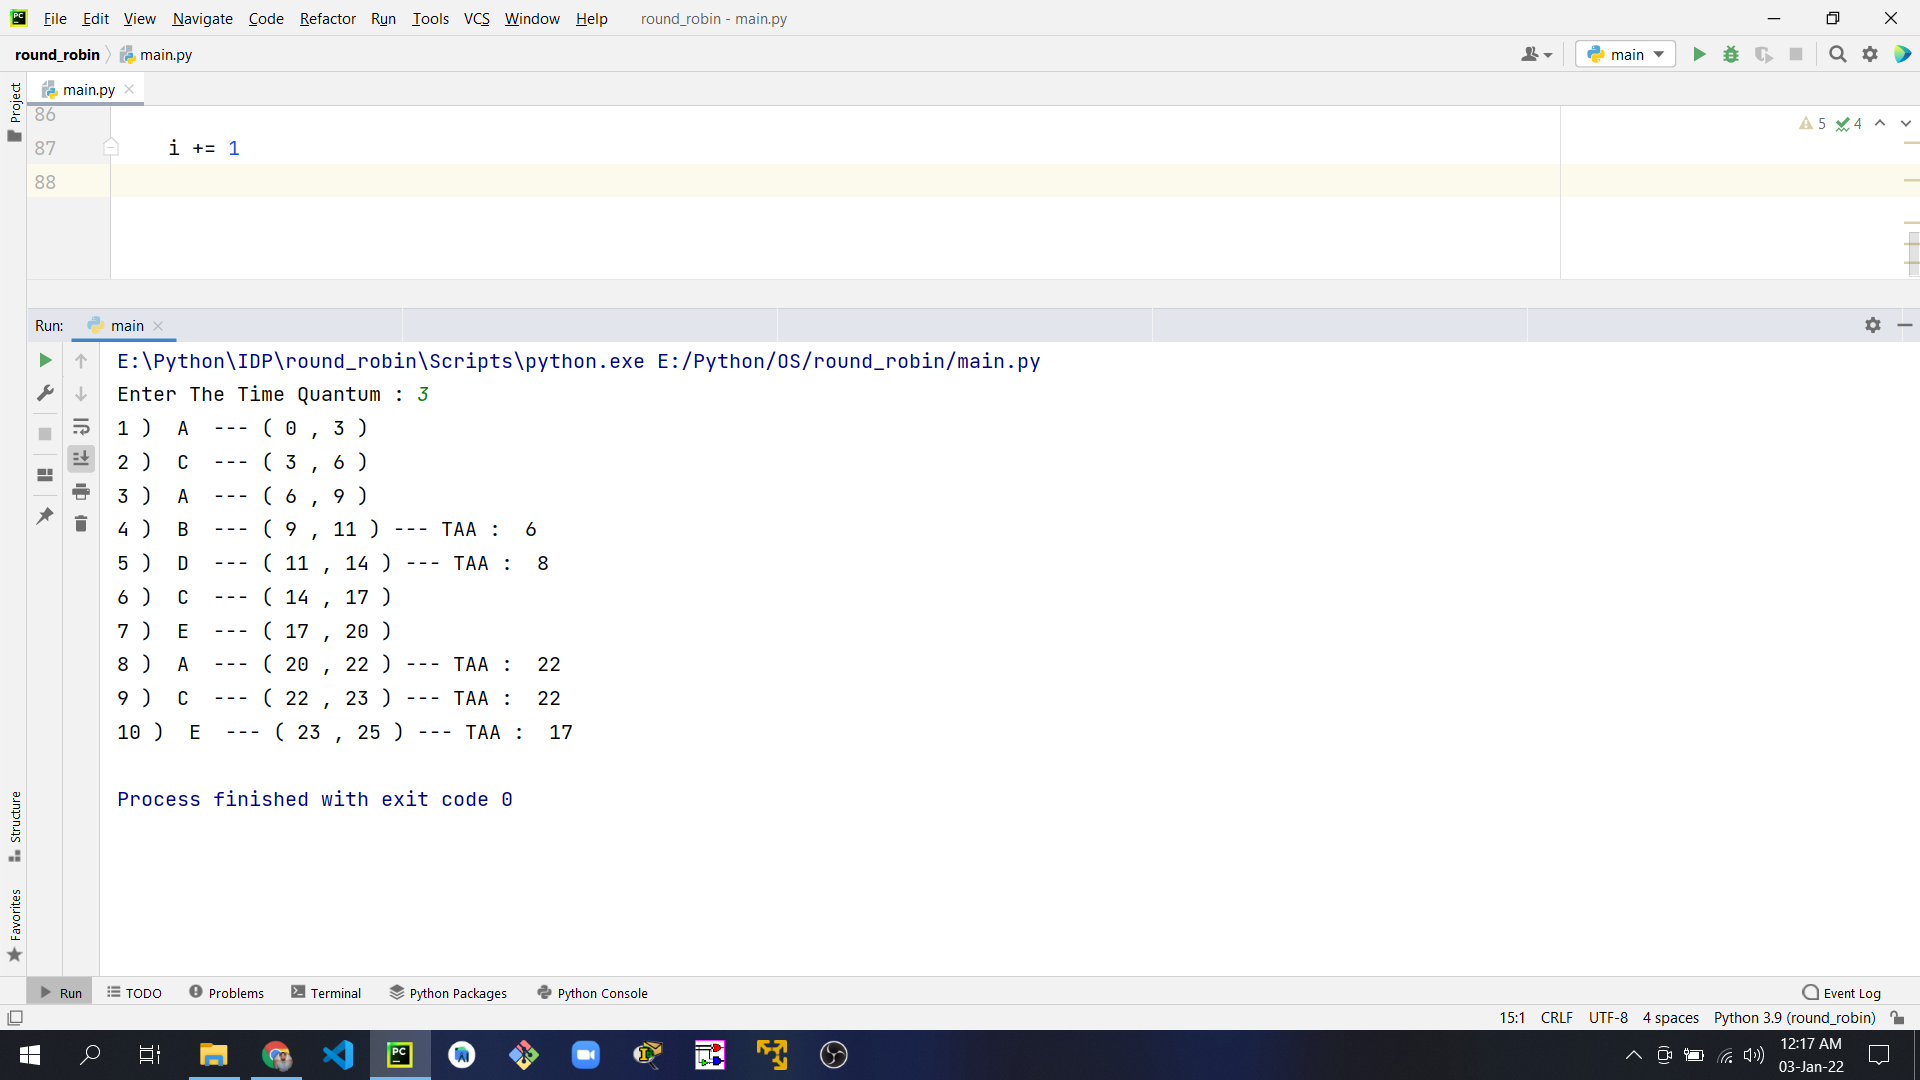
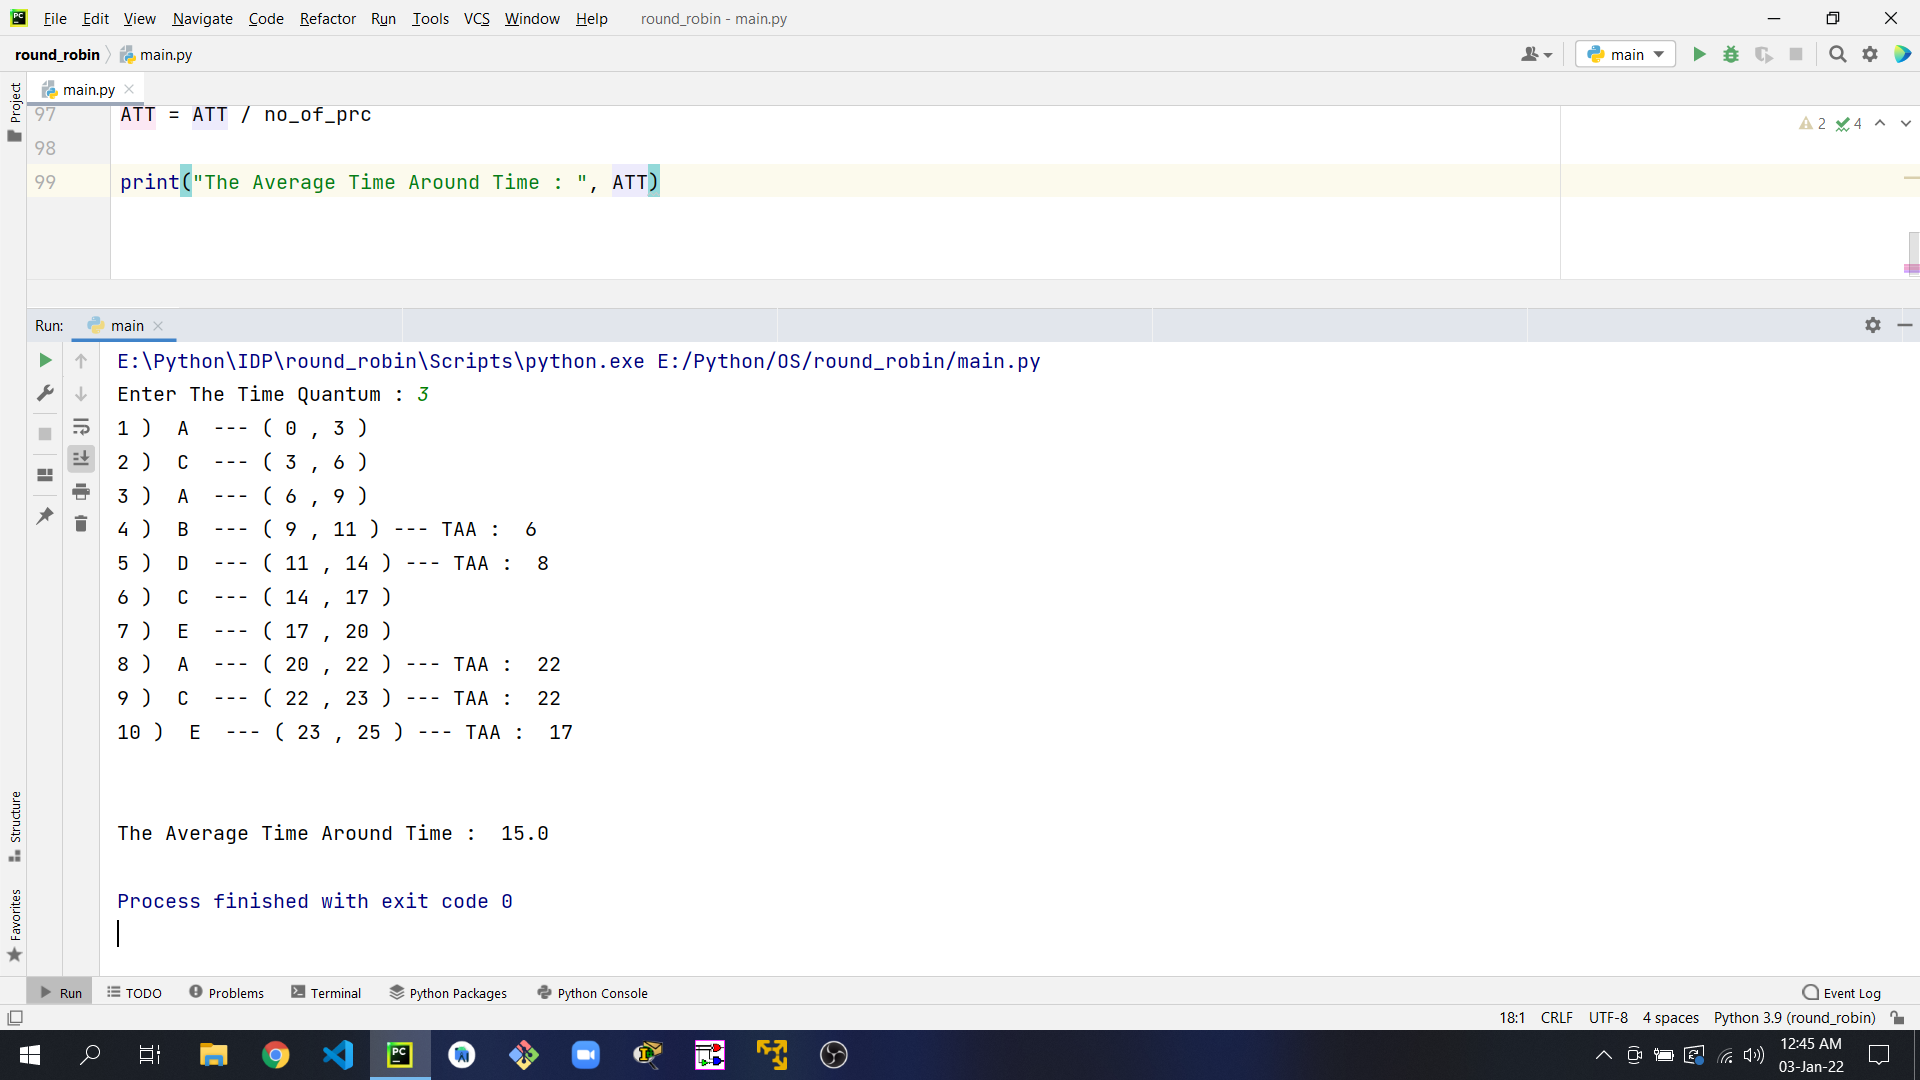
Add files via upload

diff --git a/main.py b/main.py
@@ -1,5 +1,6 @@
 import math
 
+
 class node:
     def __init__(self, name, arrival, burst):
         self.name = name
@@ -52,7 +53,6 @@ while done_nodes != no_of_prc:
     if (i == next_i) and boss_comming:
         queue.append(front_line_solder)
 
-
     if i == NODES[0].arrival or i == next_i:
 
         front_line_solder = queue.pop(0)
@@ -67,7 +67,8 @@ while done_nodes != no_of_prc:
                     front_line_solder.done = True
                     front_line_solder.ending = next_i
                     front_line_solder.duration = front_line_solder.ending - front_line_solder.arrival
-                    print(serial_counter, ") ", front_line_solder.name, " --- (", i, ",", next_i, ") --- TAA : ", front_line_solder.duration)
+                    print(serial_counter, ") ", front_line_solder.name, " --- (", i, ",", next_i, ") --- TAA : ",
+                          front_line_solder.duration)
                     done_nodes += 1
                     boss_comming = False
                 else:
@@ -80,8 +81,19 @@ while done_nodes != no_of_prc:
                 front_line_solder.done = True
                 front_line_solder.ending = next_i
                 front_line_solder.duration = front_line_solder.ending - front_line_solder.arrival
-                print(serial_counter, ") ", front_line_solder.name, " --- (", i, ",", next_i, ") --- TAA : ", front_line_solder.duration)
+                print(serial_counter, ") ", front_line_solder.name, " --- (", i, ",", next_i, ") --- TAA : ",
+                      front_line_solder.duration)
                 done_nodes += 1
                 boss_comming = False
 
     i += 1
+
+print()
+print()
+
+ATT = 0
+for x in NODES:
+    ATT += x.duration
+ATT = ATT / no_of_prc
+
+print("The Average Time Around Time : ", ATT)
